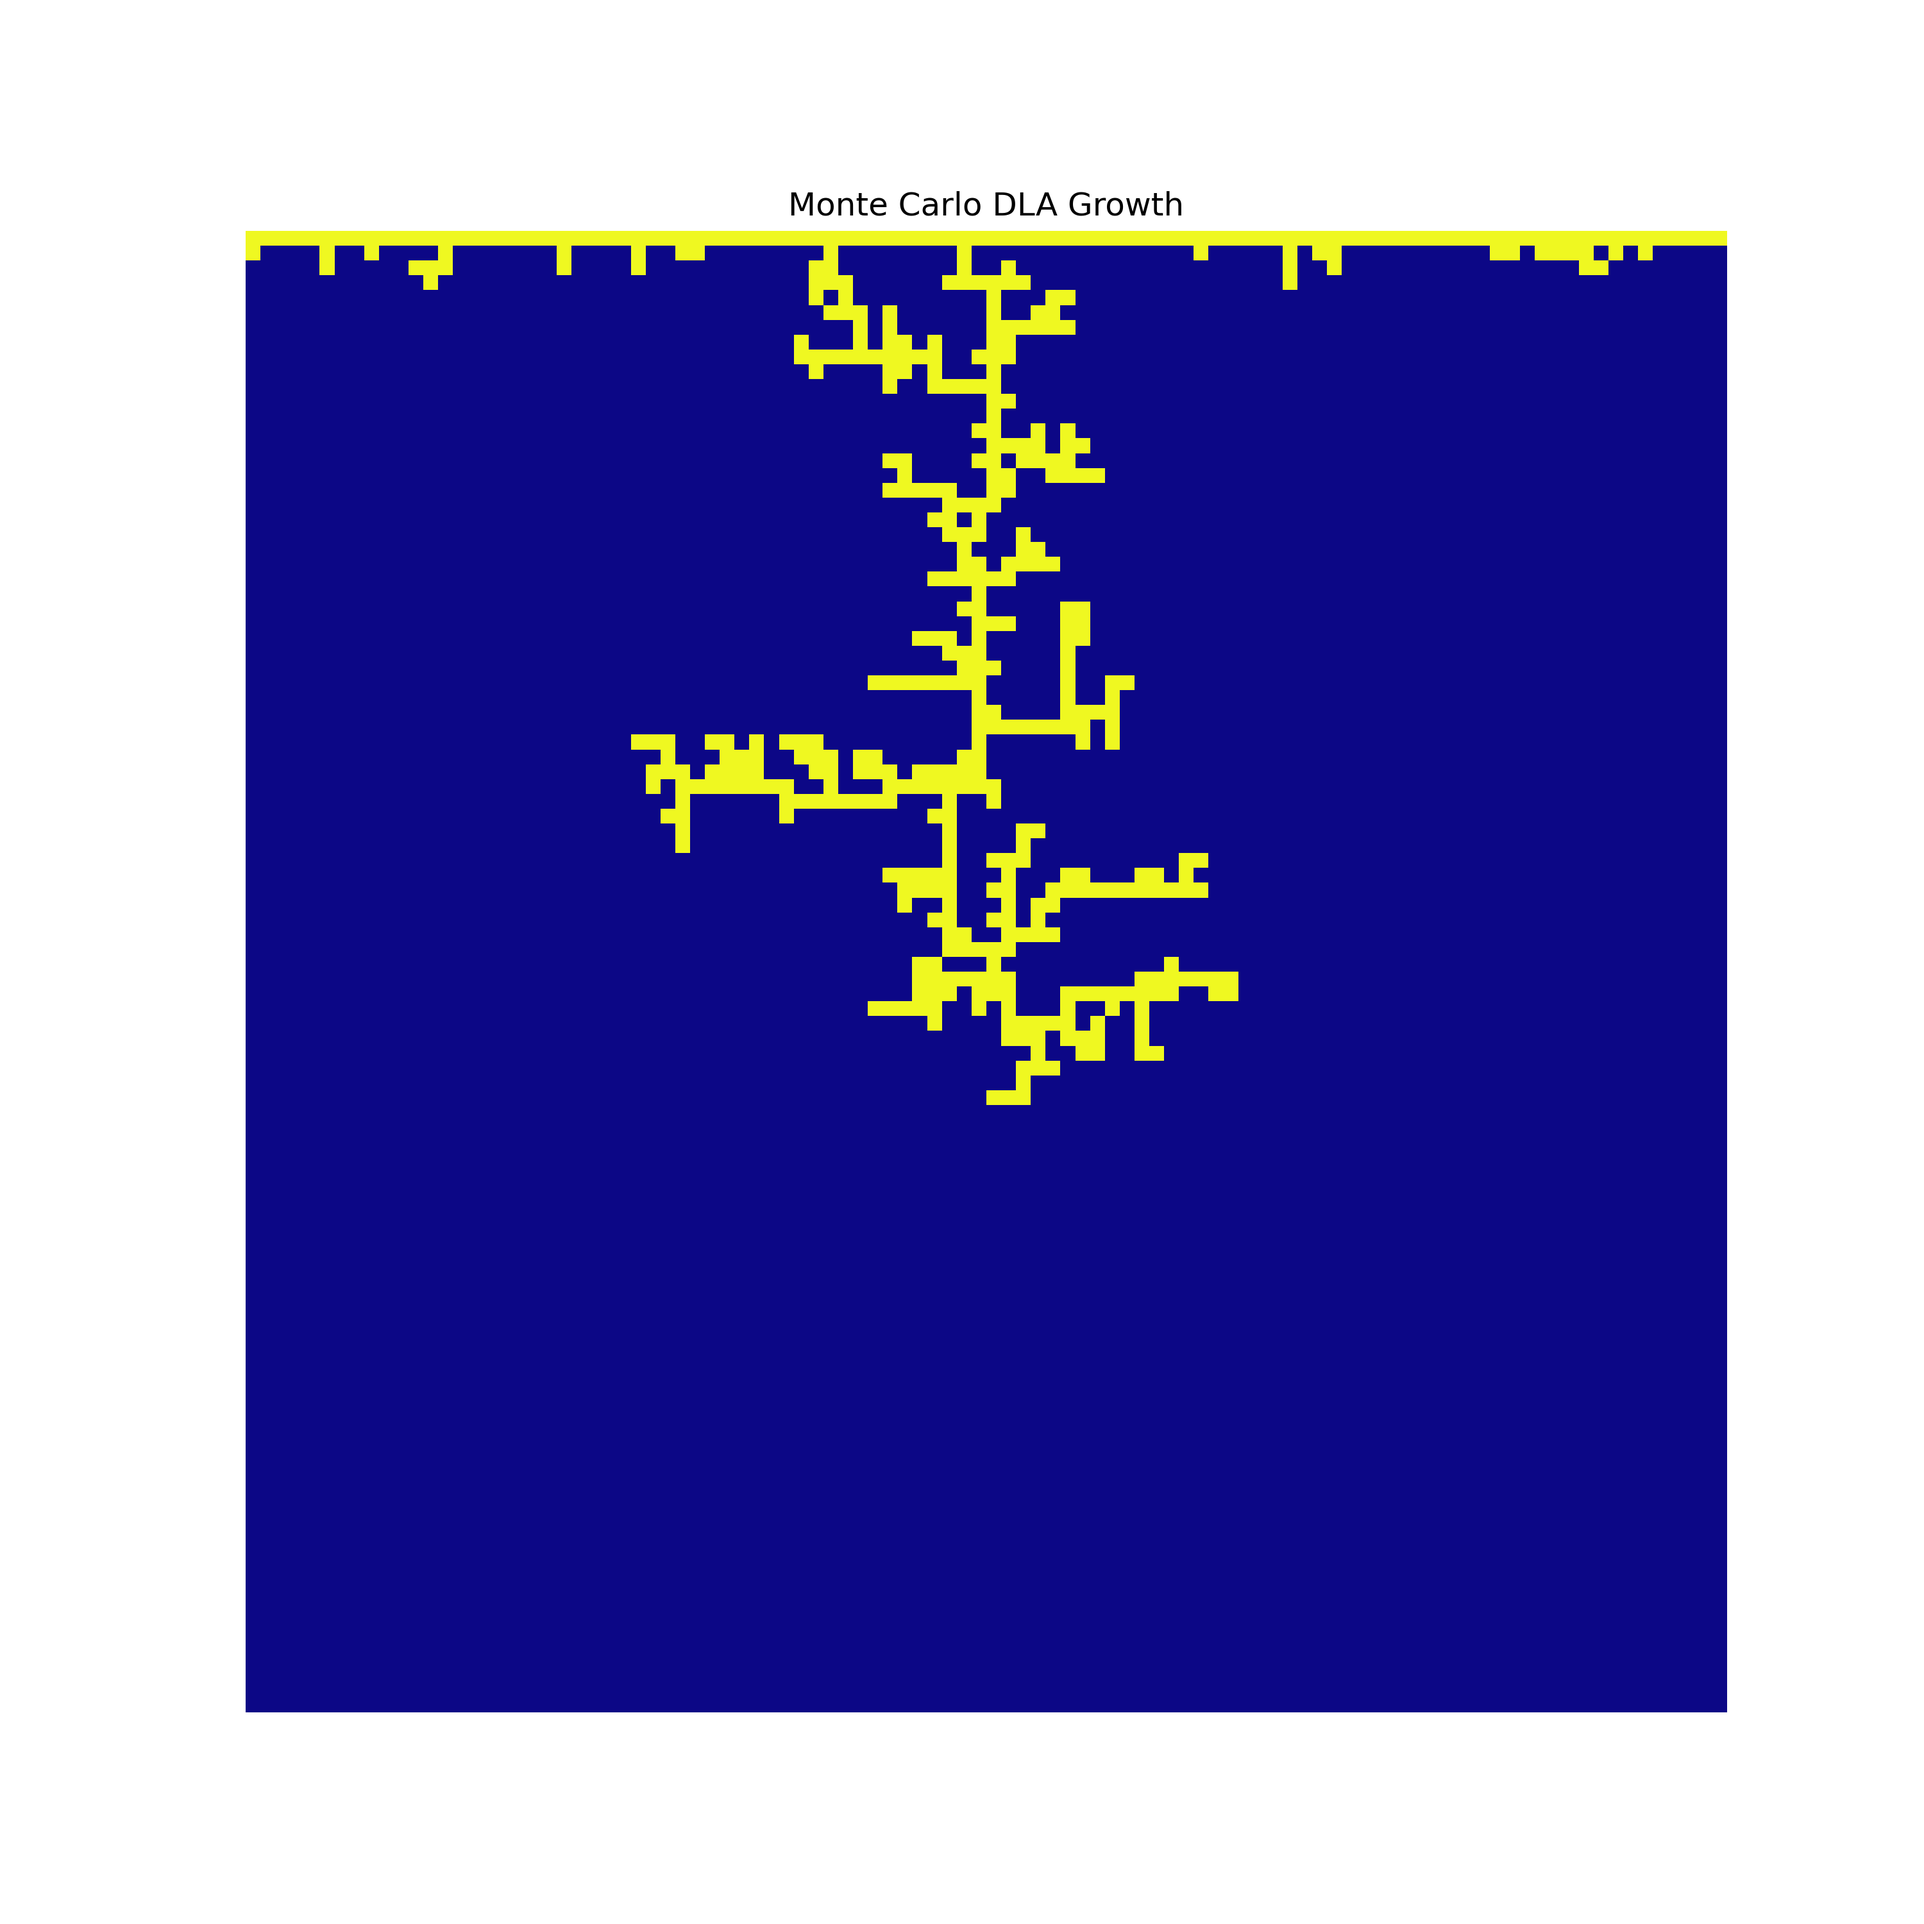
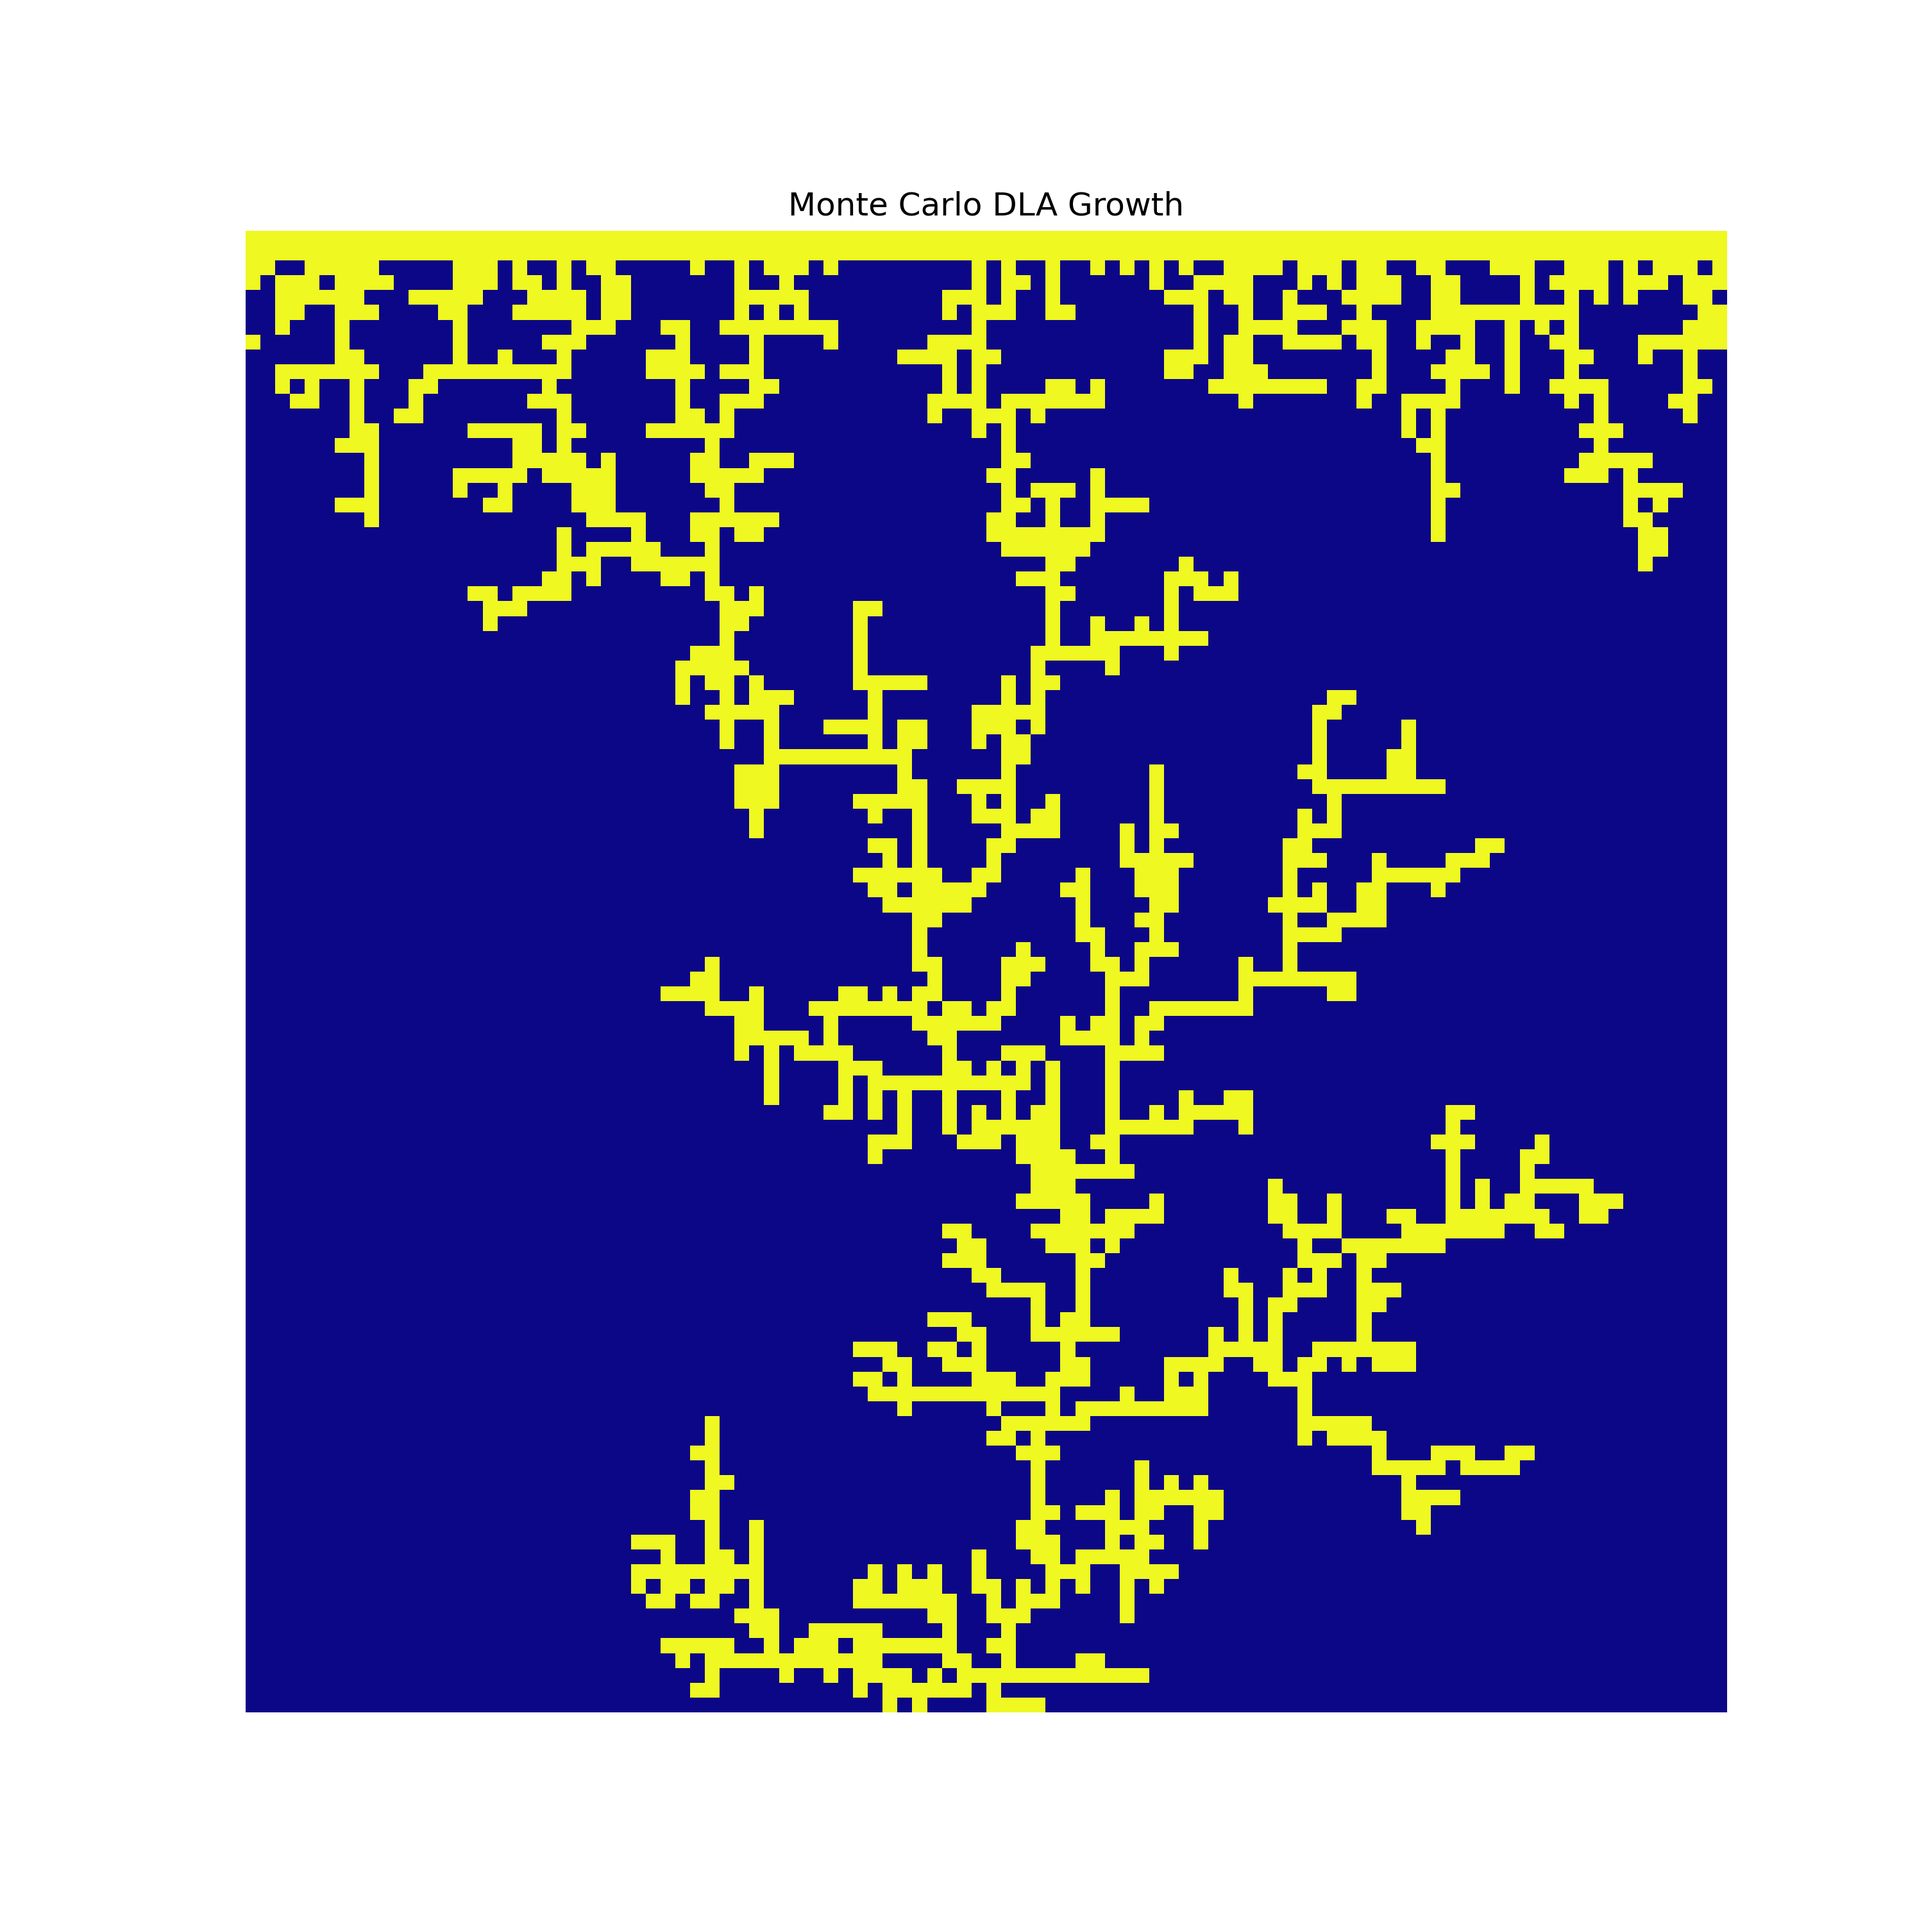
B fixed

Changed region(s): [[0.124, 0.124, 0.899, 0.899]]

diff --git a/src/Question_B_funcs.py b/src/Question_B_funcs.py
@@ -5,43 +5,48 @@ from numba import njit
 @njit
 def is_next_to_cluster(y, x, cluster):
     N, M = cluster.shape
-    moves = [(1, 0), (-1, 0), (0, 1), (0, -1)]  
+    moves = [(1, 0), (-1, 0), (0, 1), (0, -1)]
     for dy, dx in moves:
-        ny, nx = y + dy, x + dx
-        if 0 <= ny < N and 0 <= nx < M and cluster[ny, nx]:
+        ny, nx = y + dy, (x + dx) % M  # in x
+        if 0 <= ny < N and cluster[ny, nx]:  # in y range
             return True
     return False
 
 @njit
-def monte_carlo_dla(grid_size, steps):
+def spawn_walkers(num_walkers, M):
+    walkers_y = np.zeros(num_walkers, dtype=np.int32)  # start at y = 0
+    walkers_x = np.random.randint(0, M, num_walkers)  # Random x 
+    return walkers_y, walkers_x
+
+@njit
+def monte_carlo_dla(grid_size, num_walkers, steps):
     N, M = grid_size
     cluster = np.zeros((N, M), dtype=np.uint8)
-    cluster[N // 2, M // 2] = 1  # Initial seed at center
+    cluster[N - 1, M // 2] = 1  
 
-    moves = [(1, 0), (-1, 0), (0, 1), (0, -1)]  
+    moves = np.array([(1, 0), (-1, 0), (0, 1), (0, -1)]) 
+
+    walkers_y, walkers_x = spawn_walkers(num_walkers, M)  # Initial walkers
 
     for _ in range(steps):
-        # Start walker at a random x position on the top row (y = 0)
-        x = np.random.randint(0, M)
-        y = N  
+        random_moves = moves[np.random.randint(0, 4, num_walkers)]
+        walkers_y += random_moves[:, 0] 
+        walkers_x += random_moves[:, 1]  
 
-        while True:
-            dy, dx = moves[np.random.randint(0, 4)]
-            y, x = y + dy, x + dx
+        # periodic boundary conditions
+        walkers_x = np.mod(walkers_x, M)
 
-            #  periodic boundary conditions 
-            if x < 0:
-                x = M - 1
-            elif x >= M:
-                x = 0
+        # fixed boundary conditions 
+        walkers_y = np.clip(walkers_y, 0, N - 1)  
 
-            # if walker exits from top or bottom it stops existing
-            if y < 0 or y >= N:
-                break  
-
-            # Walker sticks if touches cluster 
+        # check which walkers should stick to the cluster
+        for i in range(num_walkers):
+            y, x = walkers_y[i], walkers_x[i]
             if is_next_to_cluster(y, x, cluster):
-                cluster[y, x] = 1
-                break  
+                cluster[y, x] = 1  # Walker sticks to the cluster
+                
+                new_y, new_x = spawn_walkers(1, M)  
+                walkers_y[i] = new_y[0]  
+                walkers_x[i] = new_x[0]  
 
     return cluster
